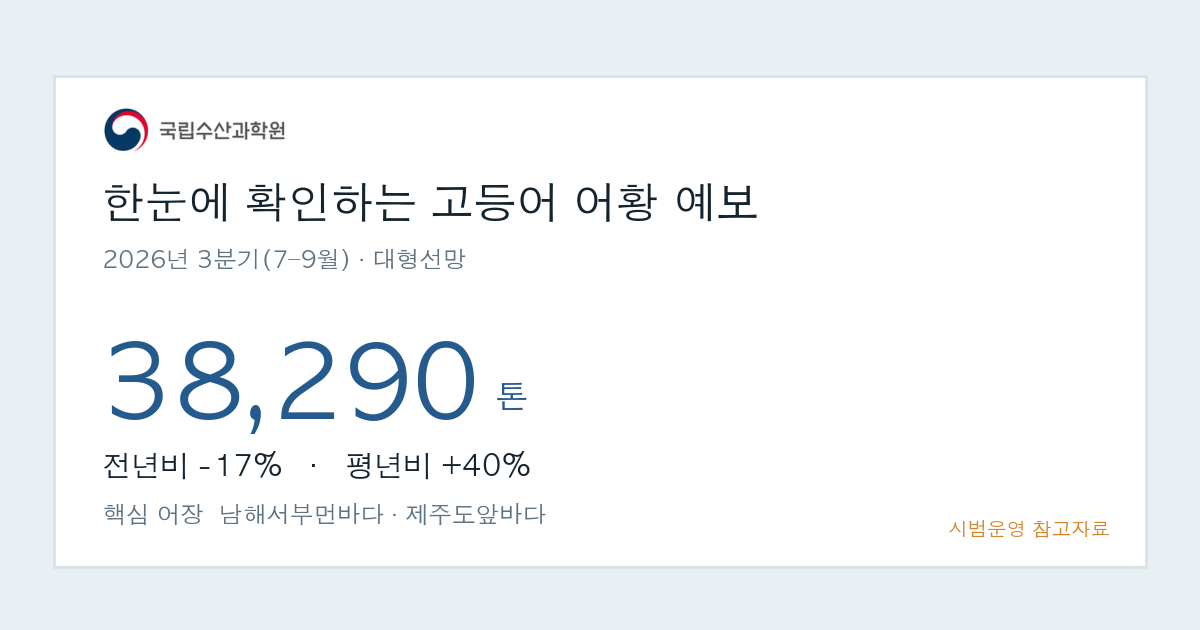
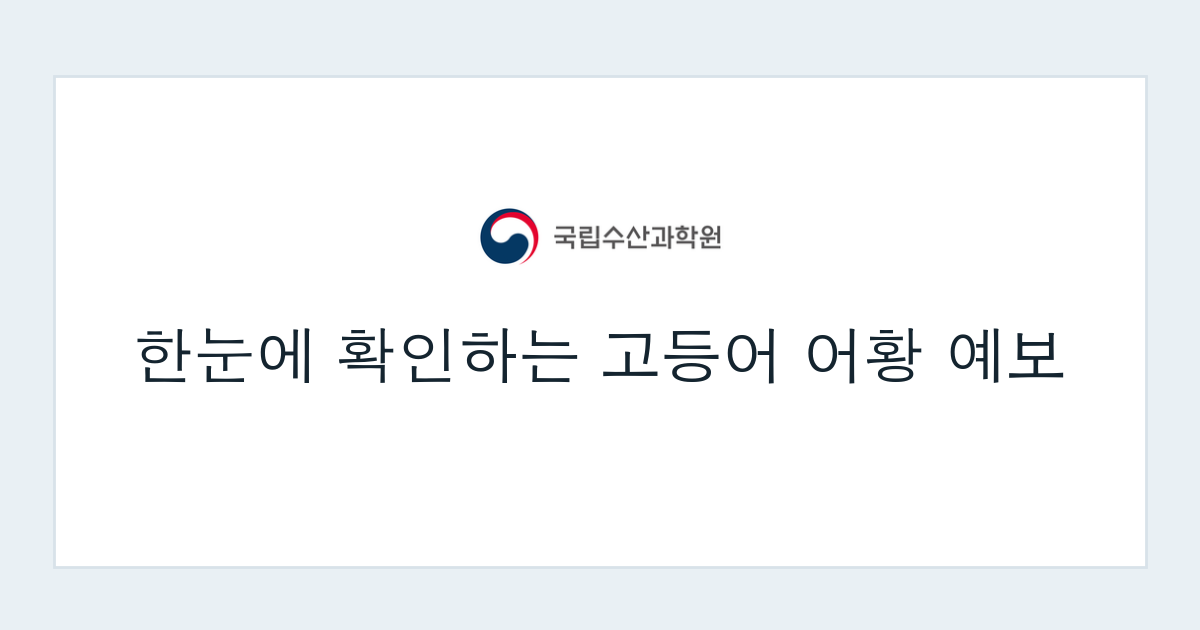
og-image 를 제목 고정으로 단순화
분기·수치를 넣으면 갱신마다 이미지가 바뀌어 메신저 캐시 무효화가 필요했다.
제목만 두면 이미지가 고정이라 ?v= 캐시버스터도 불필요.

diff --git a/index.html b/index.html
@@ -9,12 +9,12 @@
 <meta property="og:site_name" content="국립수산과학원">
 <meta property="og:locale" content="ko_KR">
 <meta property="og:url" content="https://fishery-forecast.vercel.app/">
-<meta property="og:image" content="https://fishery-forecast.vercel.app/og-image.png?v=2026Q3">
+<meta property="og:image" content="https://fishery-forecast.vercel.app/og-image.png">
 <meta property="og:image:width" content="1200">
 <meta property="og:image:height" content="630">
 <meta property="og:image:alt" content="고등어 어황 예보 · 2026년 3분기(7–9월) — 전망 38,290톤">
 <meta name="twitter:card" content="summary_large_image">
-<meta name="twitter:image" content="https://fishery-forecast.vercel.app/og-image.png?v=2026Q3">
+<meta name="twitter:image" content="https://fishery-forecast.vercel.app/og-image.png">
 <link rel="icon" type="image/png" href="/favicon.png">
 <link rel="apple-touch-icon" href="/favicon.png">
 <meta name="theme-color" content="#245a8d">
